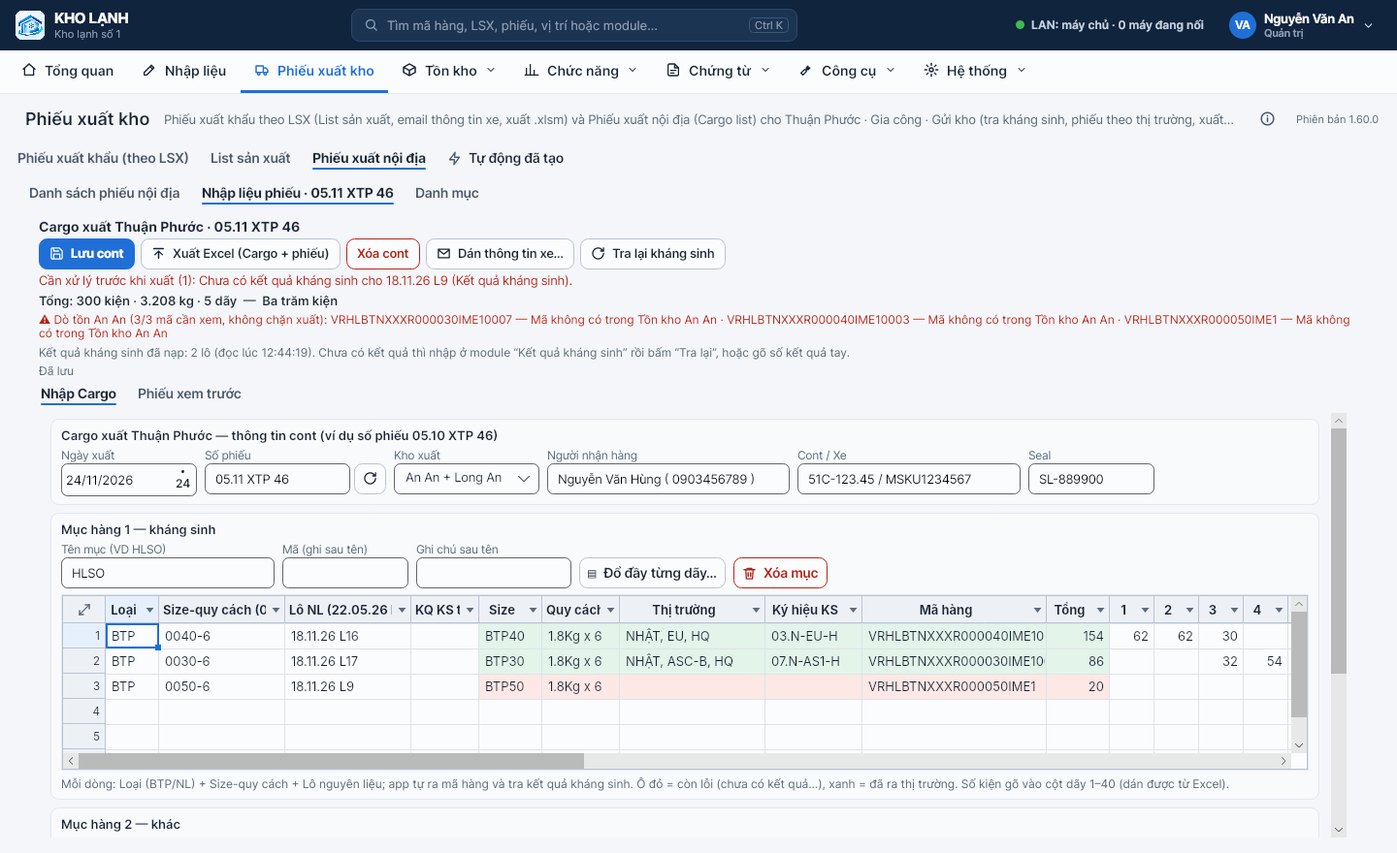
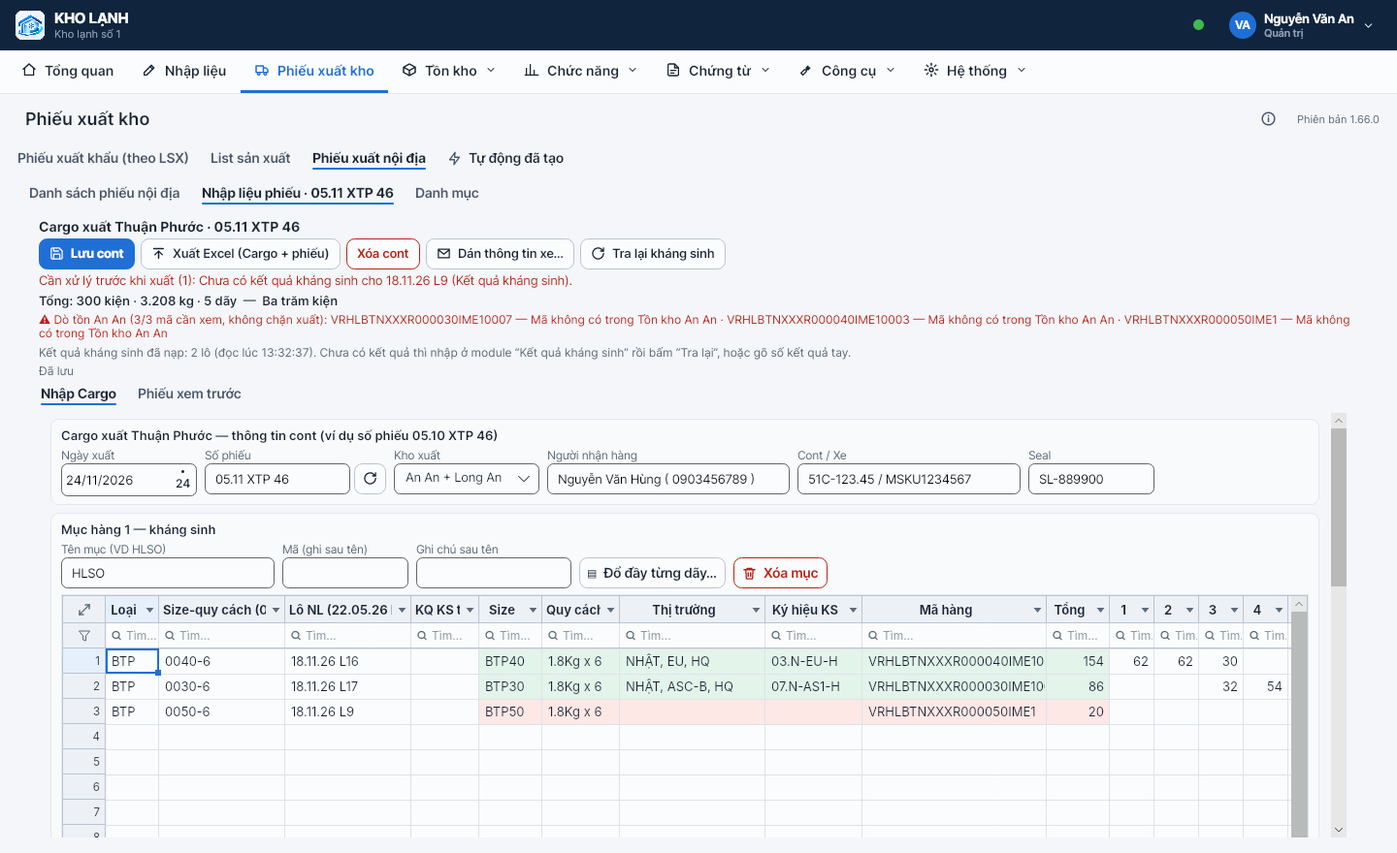
1.67.0: Nút Thôi → Đóng ở mọi hộp thoại; lưới mục hàng Cargo hiện 10 dòng, gõ thêm dòng được
Claude-Session: https://claude.ai/code/session_01CcL5zJpUk67ANYNNqr5PFQ

diff --git a/src/KhoLanh.App/Views/CuoiKyView.cs b/src/KhoLanh.App/Views/CuoiKyView.cs
@@ -330,7 +330,7 @@ public sealed class CuoiKyView : UserControl, IPage
             var cb = new ComboBox { ItemsSource = opts, SelectedIndex = res.Mapping.TryGetValue(f.Key, out var c) ? c + 1 : res.Ambiguous.TryGetValue(f.Key, out var a) ? a[0] + 1 : 0, HorizontalAlignment = HorizontalAlignment.Stretch, Margin = new Thickness(0, 2) };
             Grid.SetRow(lab, i); Grid.SetRow(cb, i); Grid.SetColumn(cb, 1); grid.Children.Add(lab); grid.Children.Add(cb); boxes[f.Key] = cb;
         }
-        var ok = new Button { Content = "Đọc lại với ánh xạ này", Classes = { "primary" }, IsDefault = true }; var no = new Button { Content = "Thôi", IsCancel = true };
+        var ok = new Button { Content = "Đọc lại với ánh xạ này", Classes = { "primary" }, IsDefault = true }; var no = new Button { Content = "Đóng", IsCancel = true };
         var body = new StackPanel { Spacing = 8 };
         body.Children.Add(new TextBlock { Text = res.Error, TextWrapping = TextWrapping.Wrap, Foreground = Amber });
         body.Children.Add(Muted($"Dòng tiêu đề: {res.HeaderRow}. Chọn cột tương ứng cho từng trường (* = bắt buộc). Lần sau phần mềm tự nhớ theo tên cột."));
@@ -563,7 +563,7 @@ public sealed class CuoiKyView : UserControl, IPage
         var qty = new TextBox { Text = Vn(Math.Min(Math.Abs(it.Diff), Math.Abs(c.Diff))).Replace(",", ""), Width = 120 };
         var side = new ComboBox { ItemsSource = new[] { CkHistory.SideText["kho"], CkHistory.SideText["kt"] }, SelectedIndex = 0, Width = 260 };
         var reason = new TextBox { Watermark = "Lý do (bắt buộc), VD: phiếu XK… ghi nhầm mã" };
-        var ok = new Button { Content = "Ghi nhận sửa mã", Classes = { "primary" }, IsDefault = true }; var no = new Button { Content = "Thôi", IsCancel = true };
+        var ok = new Button { Content = "Ghi nhận sửa mã", Classes = { "primary" }, IsDefault = true }; var no = new Button { Content = "Đóng", IsCancel = true };
         var body = new StackPanel { Spacing = 8 };
         body.Children.Add(new TextBlock { Text = $"Chuyển số lượng từ mã THỪA {over} sang mã THIẾU {under}.", TextWrapping = TextWrapping.Wrap });
         body.Children.Add(Muted("Chỉ ghi điều chỉnh trong phiên đối chiếu (file gốc / phần mềm kho, kế toán không bị đổi) — hoàn tác được."));
@@ -581,7 +581,7 @@ public sealed class CuoiKyView : UserControl, IPage
         var qty = new TextBox { Text = Vn(-it.DiffAfter).Replace(",", ""), Width = 120 };
         var side = new ComboBox { ItemsSource = new[] { "Kho (cộng / trừ vào tồn kho)", "Kế toán (cộng / trừ vào tồn kế toán)" }, SelectedIndex = 0, Width = 280 };
         var reason = new TextBox { Watermark = "Lý do (bắt buộc)" };
-        var ok = new Button { Content = "Ghi điều chỉnh", Classes = { "primary" }, IsDefault = true }; var no = new Button { Content = "Thôi", IsCancel = true };
+        var ok = new Button { Content = "Ghi điều chỉnh", Classes = { "primary" }, IsDefault = true }; var no = new Button { Content = "Đóng", IsCancel = true };
         var body = new StackPanel { Spacing = 8 };
         body.Children.Add(Muted($"Chênh lệch hiện tại {Sg(it.DiffAfter)} kg. kg dương = cộng vào bên được sửa, âm = trừ đi."));
         var r1 = new StackPanel { Orientation = Orientation.Horizontal, Spacing = 6 }; r1.Children.Add(Lb("Số kg")); r1.Children.Add(qty); r1.Children.Add(side);
@@ -600,7 +600,7 @@ public sealed class CuoiKyView : UserControl, IPage
         var note = new TextBox { Watermark = "Diễn giải nguyên nhân (không bắt buộc)" };
         var reason = new TextBox { Watermark = "Lý do / cách đã xử lý (bắt buộc)" };
         var adj = new CheckBox { Content = $"Kèm điều chỉnh kho {Sg(-it.DiffAfter)} kg để khớp", IsChecked = false, IsVisible = Math.Abs(it.DiffAfter) > Svc.Options.Tol };
-        var ok = new Button { Content = "Xác nhận đã xử lý", Classes = { "primary" }, IsDefault = true }; var no = new Button { Content = "Thôi", IsCancel = true };
+        var ok = new Button { Content = "Xác nhận đã xử lý", Classes = { "primary" }, IsDefault = true }; var no = new Button { Content = "Đóng", IsCancel = true };
         var body = new StackPanel { Spacing = 8 };
         body.Children.Add(Lb("Nguyên nhân")); body.Children.Add(cb); body.Children.Add(note); body.Children.Add(reason); body.Children.Add(adj); body.Children.Add(Ui.Buttons(no, ok));
         var w = Ui.Dialog("Xác nhận xử lý — " + it.Ma, body, 560); var go = false;
@@ -637,7 +637,7 @@ public sealed class CuoiKyView : UserControl, IPage
         var o = Svc.Options;
         var tol = new TextBox { Text = Vn(o.Tol), Width = 90 }; var pt = new TextBox { Text = Vn(o.PairTol), Width = 90 };
         var bot = new CheckBox { Content = "Ẩn hàng Bột (không cần đối chiếu)", IsChecked = o.HideBot }; var zero = new CheckBox { Content = "Hiện cả mã tồn = 0 ở mọi nguồn", IsChecked = o.ShowZero };
-        var ok = new Button { Content = "Lưu", Classes = { "primary" }, IsDefault = true }; var no = new Button { Content = "Thôi", IsCancel = true };
+        var ok = new Button { Content = "Lưu", Classes = { "primary" }, IsDefault = true }; var no = new Button { Content = "Đóng", IsCancel = true };
         var g = new Grid { ColumnDefinitions = new ColumnDefinitions("260,*"), RowDefinitions = new RowDefinitions("Auto,Auto") };
         var l1 = Lb("Ngưỡng khớp (kg)"); var l2 = Lb("Ngưỡng đối ứng 2 mã (kg)"); Grid.SetRow(l2, 1); Grid.SetColumn(tol, 1); Grid.SetColumn(pt, 1); Grid.SetRow(pt, 1);
         g.Children.Add(l1); g.Children.Add(tol); g.Children.Add(l2); g.Children.Add(pt);

diff --git a/src/KhoLanh.App/Views/C3dView.cs b/src/KhoLanh.App/Views/C3dView.cs
@@ -243,7 +243,7 @@ public sealed class C3dView : UserControl, IPage
     private async Task OpenPaste()
     {
         var ta = new TextBox { AcceptsReturn = true, Height = 220, TextWrapping = TextWrapping.NoWrap, Watermark = "VRHLCK\t31/40\t15/09/2026\t420\t520\t280\t190\t10", FontFamily = new FontFamily("Consolas, monospace") };
-        var ok = new Button { Content = "Thêm vào danh sách", Classes = { "primary" }, IsDefault = true }; var no = new Button { Content = "Thôi", IsCancel = true };
+        var ok = new Button { Content = "Thêm vào danh sách", Classes = { "primary" }, IsDefault = true }; var no = new Button { Content = "Đóng", IsCancel = true };
         var body = new StackPanel { Spacing = 8 };
         body.Children.Add(Muted($"Copy các ô trong Excel rồi dán vào đây. Thứ tự cột: Mã hàng · Size · Date · Số lượng thùng · Dài · Rộng · Cao ({St.Unit}) · kg/thùng · Cho xoay · Cho nằm · Giữ cao gốc · Sole · Tầng tối đa (5 cột cuối không bắt buộc; x / 1 / có = bật)."));
         body.Children.Add(ta); body.Children.Add(Ui.Buttons(no, ok));
@@ -343,7 +343,7 @@ public sealed class C3dView : UserControl, IPage
         }
         string? result = null;
         var add = new Button { Content = "+ Thêm nhóm cột" }; add.Click += (_, _) => { specs.Add(("nam", 1, 0)); Paint(); };
-        var ok = new Button { Content = "Áp dụng", Classes = { "primary" }, IsDefault = true }; var clr = new Button { Content = "Bỏ dãy mẫu (tự động)" }; var no = new Button { Content = "Thôi", IsCancel = true };
+        var ok = new Button { Content = "Áp dụng", Classes = { "primary" }, IsDefault = true }; var clr = new Button { Content = "Bỏ dãy mẫu (tự động)" }; var no = new Button { Content = "Đóng", IsCancel = true };
         var body = new StackPanel { Spacing = 8 };
         body.Children.Add(Muted("Trong 1 lớp của 1 dãy xếp cạnh nhau (trái → phải, nhìn từ cửa). Mỗi cột chồng tới red line (hoặc số tầng ghi riêng). Các dãy của mặt hàng lặp lại mẫu này."));
         body.Children.Add(rows); body.Children.Add(add); body.Children.Add(prev); body.Children.Add(stats); body.Children.Add(Ui.Buttons(no, clr, ok));
@@ -760,7 +760,7 @@ public sealed class C3dView : UserControl, IPage
         var auto = _openedAuto is null ? null : Svc.Plans.FirstOrDefault(x => x.Id == _openedAuto && x.IsAuto);
         var def = auto?.Name ?? $"{St.Cont!.Name} {DateTime.Now:dd/MM HH:mm}";
         var name = new TextBox { Text = def }; var over = new CheckBox { Content = "Ghi đè phương án tự động đang mở và khóa lại (lịch xuất không tính đè nữa)", IsChecked = true, IsVisible = auto is not null };
-        var ok = new Button { Content = "Lưu", Classes = { "primary" }, IsDefault = true }; var no = new Button { Content = "Thôi", IsCancel = true };
+        var ok = new Button { Content = "Lưu", Classes = { "primary" }, IsDefault = true }; var no = new Button { Content = "Đóng", IsCancel = true };
         var body = new StackPanel { Spacing = 8 };
         body.Children.Add(new TextBlock { Text = "Tên phương án" }); body.Children.Add(name); body.Children.Add(over);
         body.Children.Add(Muted("Lưu container, danh sách hàng và tuỳ chọn; kết quả được tính lại khi mở (cùng dữ liệu → cùng phương án)."));

diff --git a/src/KhoLanh.App/Views/GuiView.cs b/src/KhoLanh.App/Views/GuiView.cs
@@ -759,7 +759,7 @@ public sealed class GuiView : UserControl, IPage
         var all = new Button { Content = "Chọn tất cả" }; var none = new Button { Content = "Bỏ hết" };
         all.Click += (_, _) => { foreach (var b in boxes.Where(b => b.IsVisible)) b.IsChecked = true; };
         none.Click += (_, _) => { foreach (var b in boxes.Where(b => b.IsVisible)) b.IsChecked = false; };
-        var ok = new Button { Content = "Áp dụng", Classes = { "primary" } }; var cancel = new Button { Content = "Hủy", IsCancel = true };
+        var ok = new Button { Content = "Áp dụng", Classes = { "primary" } }; var cancel = new Button { Content = "Đóng", IsCancel = true };
         var body = new StackPanel { Spacing = 8, Children = { q, new StackPanel { Orientation = Orientation.Horizontal, Spacing = 6, Children = { all, none } }, new ScrollViewer { Content = list, MaxHeight = 420 }, Ui.Buttons(cancel, ok) } };
         var w = Ui.Dialog(rows ? "Chọn Size" : "Chọn Đặc Tính", body, 420);
         cancel.Click += (_, _) => w.Close();
@@ -770,7 +770,7 @@ public sealed class GuiView : UserControl, IPage
     {
         if (_csData is null) return;
         var box = new TextBox { Watermark = "VD: TGC xuất Nhật", Width = 280 }; string? name = null;
-        var ok = new Button { Content = "Lưu", Classes = { "primary" } }; var cancel = new Button { Content = "Hủy", IsCancel = true };
+        var ok = new Button { Content = "Lưu", Classes = { "primary" } }; var cancel = new Button { Content = "Đóng", IsCancel = true };
         var w = Ui.Dialog("Đặt tên mẫu", new StackPanel { Spacing = 8, Children = { box, Ui.Buttons(cancel, ok) } }, 360);
         cancel.Click += (_, _) => w.Close(); ok.Click += (_, _) => { name = (box.Text ?? "").Trim(); w.Close(); };
         await Ui.Show(this, w);
@@ -810,7 +810,7 @@ public sealed class GuiView : UserControl, IPage
         var box = new TextBox { Text = initial.Length > 0 ? initial : DateTime.Today.ToString("dd/MM/yyyy", CultureInfo.InvariantCulture), Width = 160 };
         string? res = null; var msg = Muted("");
         var body = new StackPanel { Spacing = 8, Children = { Muted("Nhập NGÀY BÁO CÁO ghi trên file (dd/mm/yyyy). Mặc định = Ngày số liệu."), box, msg } };
-        var cancel = new Button { Content = "Hủy", IsCancel = true }; var ok = new Button { Content = "Xuất Excel", Classes = { "primary" } };
+        var cancel = new Button { Content = "Đóng", IsCancel = true }; var ok = new Button { Content = "Xuất Excel", Classes = { "primary" } };
         body.Children.Add(Ui.Buttons(cancel, ok));
         var w = Ui.Dialog("Ngày báo cáo", body, 380); cancel.Click += (_, _) => w.Close();
         ok.Click += (_, _) => { var d = DataDate.Parse(box.Text ?? ""); if (d.Length == 0) { msg.Text = "Ngày không hợp lệ — gõ dạng dd/mm/yyyy."; return; } res = d; w.Close(); };

diff --git a/src/KhoLanh.App/Ui.cs b/src/KhoLanh.App/Ui.cs
@@ -110,7 +110,7 @@ public static class Ui
     {
         var result = false;
         var y = new Button { Content = yes, IsDefault = true, Classes = { "primary" } };
-        var n = new Button { Content = "Thôi", IsCancel = true };
+        var n = new Button { Content = "Đóng", IsCancel = true };
         var body = new StackPanel();
         body.Children.Add(new TextBlock { Text = text, TextWrapping = TextWrapping.Wrap });
         body.Children.Add(Buttons(n, y));
@@ -127,7 +127,7 @@ public static class Ui
         var box = new TextBox { Text = initial, Margin = new Thickness(0, 10, 0, 0) };
         if (password) box.PasswordChar = '•';
         var y = new Button { Content = "Đồng ý", IsDefault = true, Classes = { "primary" } };
-        var n = new Button { Content = "Thôi", IsCancel = true };
+        var n = new Button { Content = "Đóng", IsCancel = true };
         var body = new StackPanel();
         body.Children.Add(new TextBlock { Text = text, TextWrapping = TextWrapping.Wrap });
         body.Children.Add(box);
@@ -140,7 +140,7 @@ public static class Ui
         return result;
     }
 
-    /// <summary>Chọn một mục trong danh sách (kèm ô nhập chữ nếu có <paramref name="inputLabel"/>). Null = bấm Thôi.</summary>
+    /// <summary>Chọn một mục trong danh sách (kèm ô nhập chữ nếu có <paramref name="inputLabel"/>). Null = bấm Đóng.</summary>
     public static async Task<(int Index, string Text)?> Choose(Visual v, string text, string title, IList<string> items, int selected = 0,
         string? inputLabel = null, string inputInitial = "", string yes = "Đồng ý")
     {
@@ -148,7 +148,7 @@ public static class Ui
         var list = new ComboBox { ItemsSource = items, SelectedIndex = Math.Clamp(selected, 0, Math.Max(0, items.Count - 1)), HorizontalAlignment = Avalonia.Layout.HorizontalAlignment.Stretch, Margin = new Thickness(0, 10, 0, 0) };
         var box = new TextBox { Text = inputInitial, Margin = new Thickness(0, 4, 0, 0) };
         var y = new Button { Content = yes, IsDefault = true, Classes = { "primary" } };
-        var n = new Button { Content = "Thôi", IsCancel = true };
+        var n = new Button { Content = "Đóng", IsCancel = true };
         var body = new StackPanel();
         body.Children.Add(new TextBlock { Text = text, TextWrapping = TextWrapping.Wrap });
         body.Children.Add(list);

diff --git a/src/KhoLanh.App/Views/CargoView.cs b/src/KhoLanh.App/Views/CargoView.cs
@@ -279,7 +279,7 @@ public sealed class CargoView : UserControl
         }
         for (var d = 1; d <= NDay; d++) cols.Add(Day(d));
         gm.Load(cols, b.Lines.Select(l => RowOfLine(l, ks)));
-        var grid = new SheetGrid(gm) { SpareRows = 2 };
+        var grid = new SheetGrid(gm) { SpareRows = MinSpare };
         grid.Display = (r, col, raw) =>
         {
             if (r >= b.Lines.Count) return raw;
@@ -294,8 +294,14 @@ public sealed class CargoView : UserControl
             var ln = b.Lines[r]; if (LineTotal(ln) <= 0 && ln.Sn.Trim().Length == 0) return null;
             var res = ResolveLine(Svc.Cfg, b, ln, Svc.Ks); return res.Errors.Count > 0 ? BadBg : (res.Market.Length > 0 ? OkBg : null);
         };
-        // 1.53: cao theo dòng thật (trước tính 24 px/dòng < 26 px thật → hụt dòng), tối đa 560; ⤢ ở góc mở cửa sổ lớn
-        void FixH() => grid.Height = SheetGrid.FitHeight(Math.Max(gm.RowCount, 1) + grid.SpareRows, 560);
+        // 1.53: cao theo dòng thật (trước tính 24 px/dòng < 26 px thật → hụt dòng), tối đa 560; ⤢ ở góc mở cửa sổ lớn.
+        // 1.67: luôn hiện ít nhất 10 dòng (dòng có số liệu + dòng trống để gõ thêm), còn ≥ 3 dòng trống ở cuối. Trước đây chỉ
+        // 1 dòng + 2 dòng trống, thanh cuộn ngang che dòng cuối, Enter xuống dòng mới không thấy → tưởng không thêm dòng được.
+        void FixH()
+        {
+            grid.SpareRows = Math.Max(MinSpare, MinRows - gm.RowCount);
+            grid.Height = SheetGrid.FitHeight(gm.RowCount + grid.SpareRows, 560) + ScrollH;
+        }
         FixH();
         gm.Changed += () => { if (_loading) return; SyncLines(b, gm, ks); FixH(); Dirty(); };
         _blocks.Add((b, gm));
@@ -307,6 +313,8 @@ public sealed class CargoView : UserControl
         return Section($"Mục hàng {bi + 1} — {(ks ? "kháng sinh" : "khác")}", body);
     }
     private readonly Dictionary<int, Button> _capsBtn = new();
+    /// <summary>Lưới mục hàng: tối thiểu số dòng hiện (kể cả dòng trống), số dòng trống luôn có ở cuối, chỗ cho thanh cuộn ngang.</summary>
+    internal const int MinRows = 10, MinSpare = 3; private const double ScrollH = 14;
 
     private static string[] RowOfLine(CargoLine l, bool ks)
     {

diff --git a/tools/Screenshots/Program.cs b/tools/Screenshots/Program.cs
@@ -1381,6 +1381,17 @@ void PxScene()
     g2.RaiseEvent(new Avalonia.Input.TappedEventArgs(Avalonia.Input.Gestures.DoubleTappedEvent, null!)); W(14);
     Console.WriteLine($"[PX] nội địa: tab con sau bấm đúp = {sub2.SelectedIndex}");
     Snap(main, "31b-phieu-noi-dia-nhap-lieu");
+    {   // 1.67: lưới mục hàng Cargo hiện ≥ 10 dòng, gõ vào dòng trống thì thêm dòng (vẫn còn ≥ 3 dòng trống, lưới cao thêm)
+        var cgv = main.PageHost.GetVisualDescendants().OfType<KhoLanh.App.Views.CargoView>().First(x => x.IsEffectivelyVisible);
+        var cgg = cgv.GetVisualDescendants().OfType<KhoLanh.App.Controls.SheetGrid>().First(x => x.IsEffectivelyVisible && x.Model.ColCount > 12);
+        int n0 = cgg.Model.RowCount, t0 = cgg.TotalRows; var h0 = cgg.Height;
+        var rowsFit = (int)((cgg.Bounds.Height - KhoLanh.App.Controls.SheetGrid.HeadH) / KhoLanh.App.Controls.SheetGrid.RowH);
+        cgg.Model.Set(t0 - 1, 2, "01.08 L9"); W(4);   // gõ vào dòng trống cuối cùng
+        Console.WriteLine($"[CARGO] dòng: {n0} có số liệu, hiện {t0} (vừa khung ~{rowsFit}); gõ dòng {t0} → {cgg.Model.RowCount} dòng, hiện {cgg.TotalRows}, cao {h0:0} → {cgg.Height:0}");
+        if (t0 < KhoLanh.App.Views.CargoView.MinRows || cgg.TotalRows < cgg.Model.RowCount + KhoLanh.App.Views.CargoView.MinSpare) { Console.WriteLine("[CARGO] LỖI: thiếu dòng trống"); Environment.Exit(1); }
+        Snap(main, "31b2-phieu-noi-dia-them-dong");
+        cgg.Model.Undo(); W(2);
+    }
     var pv = main.PageHost.GetVisualDescendants().OfType<TabControl>().First(x => x.IsEffectivelyVisible && x != top && x != sub2);
     pv.SelectedIndex = 1; W(6); Snap(main, "31c-phieu-noi-dia-xem-truoc"); pv.SelectedIndex = 0; W(2);
     sub2.SelectedIndex = 2; W(6); Snap(main, "31d-phieu-noi-dia-danh-muc");

diff --git a/src/KhoLanh.App/Views/DoiChieuView.cs b/src/KhoLanh.App/Views/DoiChieuView.cs
@@ -769,7 +769,7 @@ public sealed partial class DoiChieuView : UserControl, IPage
             void Row(int r, string l, Control c) { var t = new TextBlock { Text = l, VerticalAlignment = VerticalAlignment.Center }; Grid.SetRow(t, r); Grid.SetRow(c, r); Grid.SetColumn(c, 1); grid.Children.Add(t); grid.Children.Add(c); }
             Row(0, "Ngày", ngay); Row(1, "Mã hàng", ma); Row(2, "Tên hàng", ten); Row(3, "Số lượng", sl); Row(4, "Trọng lượng", tl);
             var ok = new Button { Content = "Ghi vào file", IsDefault = true, Classes = { "primary" } };
-            var no = new Button { Content = "Thôi", IsCancel = true };
+            var no = new Button { Content = "Đóng", IsCancel = true };
             no.Click += (_, _) => Close();
             ok.Click += (_, _) =>
             {
@@ -811,7 +811,7 @@ public sealed partial class DoiChieuView : UserControl, IPage
             }
             var add = new Button { Content = $"Thêm {p.NMoi} ngày mới", Classes = { "primary" }, IsEnabled = p.NMoi > 0 };
             var rep = new Button { Content = $"Thay {p.NKhac} ngày khác số", IsEnabled = p.NKhac > 0 };
-            var no = new Button { Content = "Thôi", IsCancel = true };
+            var no = new Button { Content = "Đóng", IsCancel = true };
             add.Click += (_, _) => { Replace = false; Close(); };
             rep.Click += (_, _) => { Replace = true; Close(); };
             no.Click += (_, _) => Close();

diff --git a/src/KhoLanh.App/MainWindow.axaml.cs b/src/KhoLanh.App/MainWindow.axaml.cs
@@ -392,7 +392,7 @@ public partial class MainWindow : Window
         var size = new ComboBox { ItemsSource = scales.Select(x => $"{x * 100:0} %" + (x == 1.0 ? " (chuẩn)" : "")).ToList(), SelectedIndex = Math.Max(0, Array.FindIndex(scales, x => Math.Abs(x - scale0) < 0.001)), MinWidth = 160 };
         void Preview() { AppTheme.SetDensity(AppTheme.Densities[Math.Max(0, dens.SelectedIndex)].Key); AppTheme.Apply(dark.IsChecked == true ? AppTheme.Mode.Dark : AppTheme.Mode.Light, scales[Math.Max(0, size.SelectedIndex)]); ApplyZoom(); }
         light.IsCheckedChanged += (_, _) => Preview(); size.SelectionChanged += (_, _) => Preview(); dens.SelectionChanged += (_, _) => Preview();
-        var ok = new Button { Content = "Lưu", Classes = { "primary" }, IsDefault = true }; var cancel = new Button { Content = "Hủy", IsCancel = true };
+        var ok = new Button { Content = "Lưu", Classes = { "primary" }, IsDefault = true }; var cancel = new Button { Content = "Đóng", IsCancel = true };
         var body = new StackPanel { Spacing = 10 };
         body.Children.Add(new TextBlock { Text = "Bộ màu", FontWeight = Avalonia.Media.FontWeight.SemiBold }); body.Children.Add(light); body.Children.Add(dark);
         body.Children.Add(new TextBlock { Text = "Cỡ chữ (thu phóng toàn bộ màn hình)", FontWeight = Avalonia.Media.FontWeight.SemiBold, Margin = new Avalonia.Thickness(0, 6, 0, 0) }); body.Children.Add(size);

diff --git a/src/KhoLanh.App/Views/PhieuKhoView.cs b/src/KhoLanh.App/Views/PhieuKhoView.cs
@@ -440,7 +440,7 @@ public sealed class PhieuKhoView : UserControl, IPage
         if (_cur is null) return;
         var errs = Validate(Clone(_cur));
         if (errs.Count > 0) { await Ui.Message(this, string.Join("\n", errs.Take(6)) + (errs.Count > 6 ? $"\n(+{errs.Count - 6} lỗi nữa)" : ""), "Phiếu chưa đủ để xuất"); return; }
-        if (_cur.Xe.Cont.Trim().Length == 0 && !await Ui.Confirm(this, "Phiếu chưa có SỐ CONT.\n\nXuất file vẫn được; bấm “Vẫn xuất” để tiếp tục, “Thôi” để quay lại nhập.", "Thiếu số cont", "Vẫn xuất")) return;
+        if (_cur.Xe.Cont.Trim().Length == 0 && !await Ui.Confirm(this, "Phiếu chưa có SỐ CONT.\n\nXuất file vẫn được; bấm “Vẫn xuất” để tiếp tục, “Đóng” để quay lại nhập.", "Thiếu số cont", "Vẫn xuất")) return;
         var cur = Clone(_cur);
         var path = await Ui.SaveFile(this, "Xuất Phiếu xuất kho", FileName(cur), "xlsm", "Excel có macro (.xlsm)");
         if (path is null) return;

diff --git a/src/KhoLanh.App/Views/TongQuanView.cs b/src/KhoLanh.App/Views/TongQuanView.cs
@@ -454,7 +454,7 @@ public sealed partial class TongQuanView : UserControl, IPage
     {
         var chosen = QuickChosen().ToHashSet();
         var boxes = Quicks.Where(q => App.Services.Session.Can(q.Perm)).Select(q => new CheckBox { Content = q.Icon + "  " + q.Label, IsChecked = chosen.Contains(q.Key), Tag = q.Key }).ToList();
-        var ok = new Button { Content = "Lưu", Classes = { "primary" }, IsDefault = true }; var reset = new Button { Content = "Mặc định" }; var no = new Button { Content = "Thôi", IsCancel = true };
+        var ok = new Button { Content = "Lưu", Classes = { "primary" }, IsDefault = true }; var reset = new Button { Content = "Mặc định" }; var no = new Button { Content = "Đóng", IsCancel = true };
         var body = new StackPanel { Spacing = 4 };
         body.Children.Add(new TextBlock { Text = "Chọn các ô hiện ở «Thao tác nhanh» (lưu riêng cho tài khoản này):", TextWrapping = TextWrapping.Wrap });
         foreach (var b in boxes) body.Children.Add(b);

diff --git a/src/KhoLanh.App/Views/DoiChieuView.XuatKiem.cs b/src/KhoLanh.App/Views/DoiChieuView.XuatKiem.cs
@@ -142,7 +142,7 @@ public sealed partial class DoiChieuView
             new GridColumn("cu", "Tên hiện có", 330) { ReadOnly = true }, new GridColumn("moi", "Tên mới", 330) { ReadOnly = true }, new GridColumn("src", "Nguồn", 130) { ReadOnly = true },
         }, shown.Select(x => new[] { "x", XuatKiem.Dmy(x.Ngay), x.Ma, x.Cu.Length > 0 ? x.Cu : "(trống)", x.Moi, x.Src }));
         var grid = new SheetGrid(gm) { SpareRows = 0, Height = 340 };
-        var ok = new Button { Content = "Áp dụng", Classes = { "primary" } }; var close = new Button { Content = "Hủy", IsCancel = true };
+        var ok = new Button { Content = "Áp dụng", Classes = { "primary" } }; var close = new Button { Content = "Đóng", IsCancel = true };
         var body = new StackPanel { Spacing = 6 };
         body.Children.Add(new TextBlock
         {

diff --git a/src/KhoLanh.App/Views/AnAnView.cs b/src/KhoLanh.App/Views/AnAnView.cs
@@ -628,7 +628,7 @@ public sealed class AnAnView : UserControl, IPage
         var boxes = AnAnExport.HlsoExportIds.Select(id => new CheckBox { Content = AnAnData.LabelOf(id), IsChecked = true, Tag = id }).ToList();
         foreach (var b in boxes) body.Children.Add(b);
         var ok = false;
-        var y = new Button { Content = "Xuất", IsDefault = true, Classes = { "primary" } }; var n = new Button { Content = "Thôi", IsCancel = true };
+        var y = new Button { Content = "Xuất", IsDefault = true, Classes = { "primary" } }; var n = new Button { Content = "Đóng", IsCancel = true };
         body.Children.Add(Ui.Buttons(n, y));
         var w = Ui.Dialog("Xuất excel HLSO", body, 360);
         y.Click += (_, _) => { ok = true; w.Close(); }; n.Click += (_, _) => w.Close();
